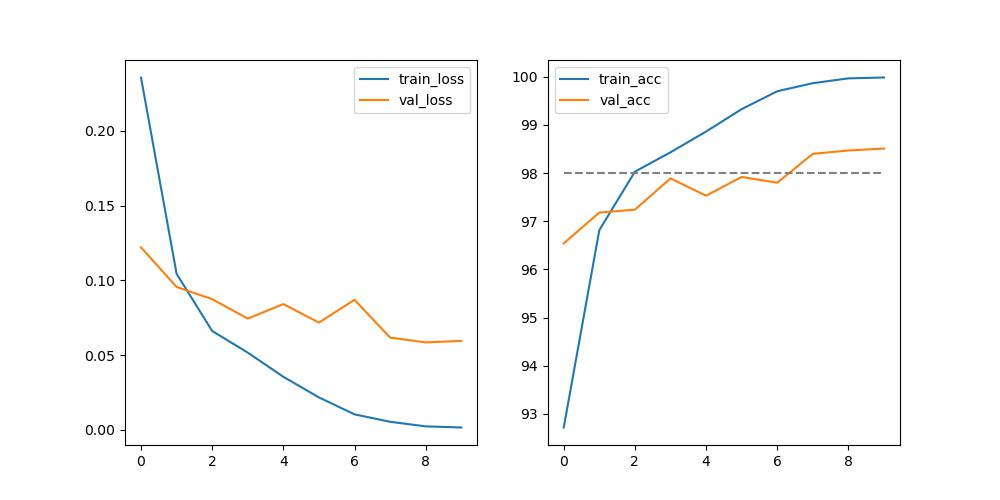
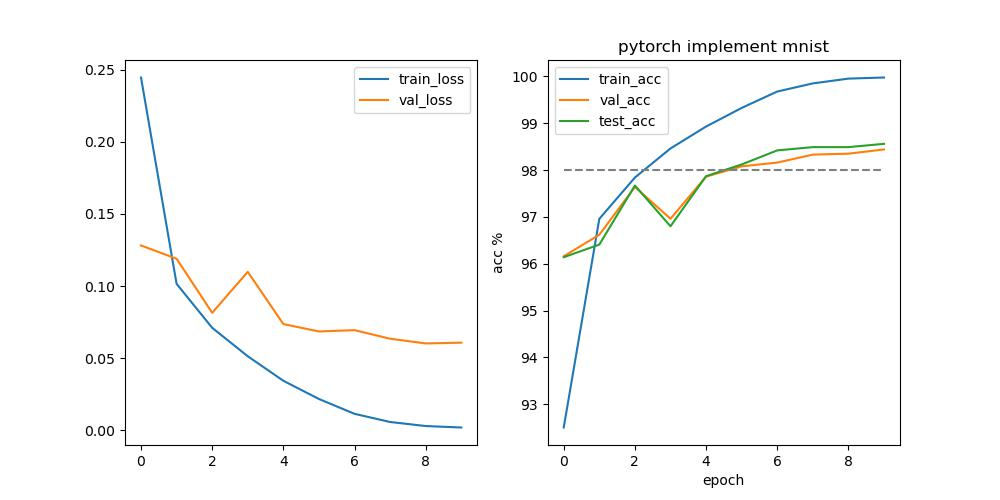
hw5 finished

diff --git a/homework/hw5/np_mnist_template.py b/homework/hw5/np_mnist_template.py
@@ -7,7 +7,7 @@
 # 作业内容：更改loss函数、网络结构、激活函数，完成训练MLP网络识别手写数字MNIST数据集
 
 import numpy as np
-
+import matplotlib.pyplot as plt
 from tqdm  import tqdm
 
 
@@ -30,40 +30,42 @@ def relu(x):
     '''
     relu函数
     '''
-    if x>0:
-        return x
-    return np.zeros_like(x)
+    y=np.zeros_like(x)
+    y[x>0]=x[x>0]
+    return y
 
 def relu_prime(x):
     '''
     relu函数的导数
     '''
-    if x>0:
-        return np.ones_like(x)
-    return np.zeros_like(x)
+    y=np.zeros_like(x)
+    y[x>0]=1
+    return y
 
 #输出层激活函数
 def f(x):
     '''
     softmax函数, 防止除0
+    x 按batch输入，每行为一个数据
+    利用numpy广播机制： (4,3)除以(4,1) (4,1)广播成(4,3)后对应元素相除
     '''
-    return x/np.sum(np.exp(x))
-    
-
-def f_prime(x):
-    '''
-    softmax函数的导数
-    '''
-    pass
+    return np.exp(x)/np.sum(np.exp(x),axis=1,keepdims=True)
 
 # 定义损失函数
 def loss_fn(y_true, y_pred):
     '''
     y_true: (batch_size, num_classes), one-hot编码
     y_pred: (batch_size, num_classes), softmax输出
+    对整个batch求和
+    '''
+    return -np.sum(y_true*np.log(y_pred))
+
+# 一下两个导数完全可以统一
+def f_prime(x):
+    '''
+    softmax函数的导数
     '''
     pass
-
 def loss_fn_prime(y_true, y_pred):
     '''
     y_true: (batch_size, num_classes), one-hot编码
@@ -71,7 +73,11 @@ def loss_fn_prime(y_true, y_pred):
     '''
     pass
 
-
+def crossentropy_prime(y_true,y_pred):
+    '''
+    结合了softmax+NLL的总体导数
+    '''
+    return y_pred-y_true
 
 # 定义权重初始化函数
 def init_weights(shape=()):
@@ -86,43 +92,97 @@ class Network(object):
     MNIST数据集分类网络
     '''
 
-    def __init__(self, input_size, hidden_size, output_size, lr=0.01):
+    def __init__(self, input_size, hidden_size, output_size, lr=0.01,batch_size=64):
         '''
         初始化网络结构
         '''
-        pass
-
+        self.W1=init_weights(shape=(input_size,hidden_size))
+        self.b1=init_weights(shape=(hidden_size,))
+        self.W2=init_weights(shape=(hidden_size,output_size))
+        self.b2=init_weights(shape=(output_size,))
+        self.y1=np.zeros((batch_size,hidden_size))
+        self.lr=lr
     def forward(self, x):
         '''
         前向传播
+        按batch一起算，肯定比一个个算快
         '''
-        pass
+        batch_size=x.shape[0]
+        z1=np.matmul(x,self.W1)+ np.tile(self.b1,reps=(batch_size,1)) # b要广播到(batch_size,hidden_size) 事实证明，不需要显示实现，另一维会自动广播
+        y1=relu(z1)
+        self.y1=y1
+        z2=np.matmul(y1,self.W2)+self.b2
+        y2=relu(z2)
+        y_pred=f(y2)
+        return y_pred
+
+
+        
 
     def step(self, x_batch, y_batch):
         '''
         一步训练
         '''
-
         # 前向传播
-        pass
-        # 计算损失和准确率
-        pass
-        
+        y_pred=self.forward(x_batch)
+        # 计算损失和准确率 每个batch
+        batch_size=y_pred.shape[0]
+        loss=loss_fn(y_batch,y_pred)/batch_size
+        acc=np.sum((np.argmax(y_pred,axis=1)==np.argmax(y_batch,axis=1)))/batch_size
+        # print("loss:{} batch_acc:{} batch_size:{} lr:{}".format(loss, acc, batch_size, self.lr))
         # 反向传播
-        pass
-
-
+        delta_L=crossentropy_prime(y_true=y_batch,y_pred=y_pred)  # (batch,out)
+        delta_1=np.matmul(delta_L,self.W2.T)*relu_prime(self.y1) #(batch,hidden)
         # 更新权重
-        pass
+        self.b2=self.b2-self.lr*np.sum(delta_L,axis=0) #(1,out)
+        self.W2=self.W2-self.lr*np.matmul(self.y1.T,delta_L) #(hidden,out) 分块矩阵乘法性质，直接乘就是对应相加
+        self.b1=self.b1-self.lr*np.sum(delta_1,axis=0) #(1,hidden)
+        self.W1=self.W1-self.lr*np.matmul(x_batch.T,delta_1) #(in,hidden)
+        return loss,acc,batch_size
 
 
 if __name__ == '__main__':
     # 训练网络
     net = Network(input_size=784, hidden_size=256, output_size=10, lr=0.01)
+    acc_val_list=[]
+    acc_test_list=[]
     for epoch in range(10):
-        losses = []
-        accuracies = []
-        p_bar = tqdm(range(0, len(X_train), 64))
-        for i in p_bar:
-            pass
+        loss_total=0
+        acc_total=0
+        for i in range (0,len(X_train),64):
+            loss_batch,acc_batch,batch_size=net.step(X_train[i:i+64,:],y_train[i:i+64,:])  # 最后一个batch只剩16了
+            loss_total=(i*loss_total+batch_size*loss_batch)/(i+batch_size)
+            acc_total=(i*acc_total+batch_size*acc_batch)/(i+batch_size)
+            if(i%6400==0):
+                print("train_epoch:%d, until picture%d, train_loss:%.3f train_acc:%.3f" % (epoch, i, loss_total, acc_total))
+        
+        # validation 因为要交曲线图直接用测试集了
+        acc_val=0
+        acc_test=0
+        for i in range (0,len(X_val),64):
+            y_pred=net.forward(X_val[i:i+64,:])
+            batch_size=X_val[i:i+64,:].shape[0]
+            acc_batch=np.sum((np.argmax(y_pred,axis=1)==np.argmax(y_val[i:i+64,:],axis=1)))/batch_size
+            acc_val=(i*acc_val+batch_size*acc_batch)/(i+batch_size)
+        for i in range (0,len(X_test),64):
+            y_pred=net.forward(X_test[i:i+64,:])
+            batch_size=X_test[i:i+64,:].shape[0]
+            acc_batch=np.sum((np.argmax(y_pred,axis=1)==np.argmax(y_test[i:i+64,:],axis=1)))/batch_size
+            acc_test=(i*acc_test+batch_size*acc_batch)/(i+batch_size)
+        print("epoch:%d, val_acc:%.2f%%"%(epoch,100*acc_val))
+        print("epoch:%d, test_acc:%.2f%%"%(epoch,100*acc_test))
+        acc_val_list.append(100*acc_val)
+        acc_test_list.append(100*acc_test)
+    plt.figure(figsize=(10, 5))
+    plt.plot(acc_test_list, label='val_acc',alpha=0.5,color='b')
+    plt.plot(acc_test_list, label='test_acc',alpha=0.5,color='y')
+    plt.plot(np.ones_like(acc_test_list)*94,ls='--',color='grey')
+    plt.legend()
+    plt.xlabel("epoch")
+    plt.ylabel("acc %")
+    plt.title("numpy implement mnist")
+    plt.savefig("./numpy_acc.jpg")
+        # p_bar = tqdm(range(0, len(X_train), 64))
+        # for i in p_bar:
+        #     pass
         

diff --git a/homework/hw5/mnist_mlp_template.py b/homework/hw5/mnist_mlp_template.py
@@ -91,7 +91,7 @@ test_loader = DataLoader(MNISTDataset(X_test, y_test), \
 # 定义训练参数
 EPOCHS = 10
 
-history = {'train_loss': [], 'train_acc': [], 'val_loss': [], 'val_acc': []}
+history = {'train_loss': [], 'train_acc': [], 'val_loss': [], 'val_acc': [], 'test_acc':[]}
 # 训练模型
 for epoch in range(EPOCHS):
     # 训练模式
@@ -138,23 +138,30 @@ for epoch in range(EPOCHS):
     model.eval()
     val_loss = []
     correct = 0
+    correct_test=0
     with torch.no_grad():
         for data, target in val_loader:
             data, target = data.to(device='cuda'), target.to(device='cuda')
-            
             output = model(data)
             val_loss.append(criterion(output, target).item()) # sum up batch loss
             pred = output.max(1, keepdim=True)[1] # get the index of the max log-probability
             correct += pred.eq(target.view_as(pred)).sum().item()
+        for data, target in test_loader:
+            data, target = data.to(device='cuda'), target.to(device='cuda')
+            output = model(data)
+            pred = output.max(1, keepdim=True)[1]
+            correct_test += pred.eq(target.view_as(pred)).sum().item()
+        
 
     val_loss = np.mean(val_loss)
 
     print('Validation set: Average loss: {:.4f}, Accuracy: {}/{} ({:.2f}%)'.format(
         val_loss, correct, len(val_loader.dataset),
         100. * correct / len(val_loader.dataset)))
-
+    print("test set accuracy: %.2f%%",100.*correct_test/len(test_loader.dataset))
     history['val_loss'].append(val_loss)
     history['val_acc'].append(100. *correct / len(val_loader.dataset))
+    history['test_acc'].append(100.*correct_test/len(test_loader.dataset))
 
 # 画图
 plt.figure(figsize=(10, 5))
@@ -165,7 +172,11 @@ plt.legend()
 plt.subplot(1, 2, 2)
 plt.plot(history['train_acc'], label='train_acc')
 plt.plot(history['val_acc'], label='val_acc')
+plt.plot(history['test_acc'], label='test_acc')
 plt.plot(np.ones_like(history['val_acc'])*98,ls='--',color='grey')
 plt.legend()
+plt.xlabel("epoch")
+plt.ylabel("acc %")
+plt.title("pytorch implement mnist")
 plt.show()
 plt.savefig("./curve.jpg")
